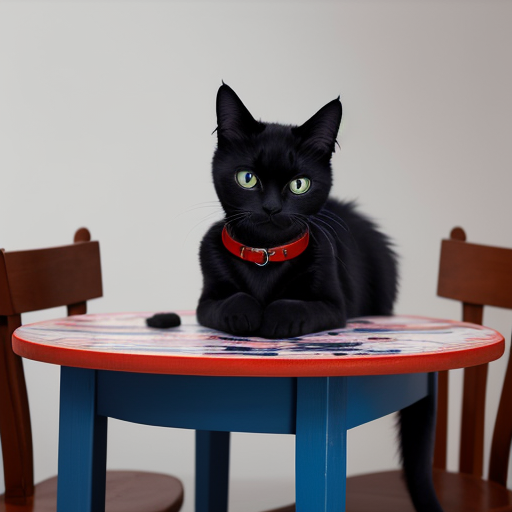
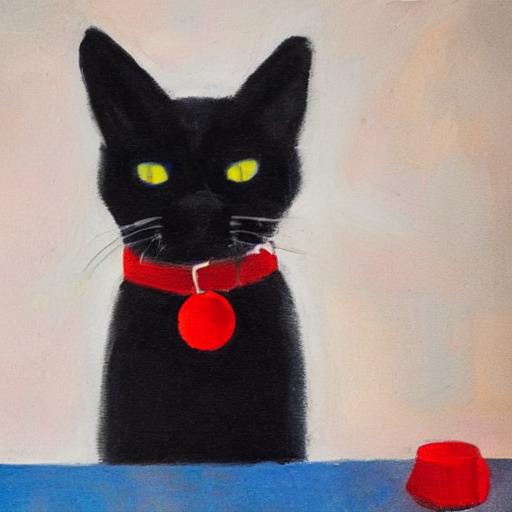
Add artists styles

diff --git a/03-prompt-formula-style.md b/03-prompt-formula-style.md
@@ -13,24 +13,33 @@ Our prompt formula can now be extended to:
 
 Some popular example for artistic styles are:
 
-- **Realism, Realistic style**: A focus on mimicking the appearance and nature of the subject. It is recognizable by fine rendering, muted colors, intricate detail, and accurate fundamentals.
+- **Realism, Realistic style**: A focus on mimicking the appearance and nature of the subject. It is recognizable by fine rendering, muted colors, intricate detail, and accurate fundamentals. Famous artists: Gustave Courbet, Jean-François Millet, Winslow Homer.
 - **Romanticism, Romantic style**: It means capturing the subject in a favorable and exaggerated style.
 Art in the romantic style is characterized by sharp contrast, bright highlights, strong colors, and a refined, almost
-glossy finish.
+glossy finish.  Famous artists: Caspar David Friedrich, Eugène Delacroix, William Blake.
 - **Abstract art**: A focus on capturing the subject in its simplest form. Think of abstract
-as a scale rather than an absolute term. Essentially all artworks have some form of abstraction. Its characteristics are Reliance on shapes, colors, lines, and contrast.
-- **Impressionism**: Captures the artist's impression of a subject. It is recognizable by light colors, weak shadows, energetic brushwork, broken color, and colorful accents.
-- **Photorealism**: It means capturing the subject with photographic accuracy. Photorealism is an art movement that seeks to replicate the look of real-life photographs through another medium. Charecteristics are meticulous drawing and detail.
+as a scale rather than an absolute term. Essentially all artworks have some form of abstraction. Its characteristics are Reliance on shapes, colors, lines, and contrast. Famous artists: Wassily Kandinsky, Joan Miró, Piet Mondrian.
+- **Impressionism**: Captures the artist's impression of a subject. It is recognizable by light colors, weak shadows, energetic brushwork, broken color, and colorful accents. Famous artists: Claude Monet, Pierre-Auguste Renoir, Edgar Degas.
+- **Photorealism**: It means capturing the subject with photographic accuracy. Photorealism is an art movement that seeks to replicate the look of real-life photographs through another medium. Charecteristics are meticulous drawing and detail. Famous artists: Chuck Close, Ralph Goings, Robert Bechtle.
 - **Surrealism**: Surrealism is an art movement that explores the bizarre and dreamlike, creating images that defy reality and logic. It often features unexpected combinations, distorted forms, and a focus on the subconscious mind. Salvador Dalí and René Magritte are notable surrealistic artists.
-- **Pop Art**: Pop art was a Western art movement that was popularized in The United States and Great Britain in the 1950s. Pop art – known for its bright, attention-catching colors – was used in advertising, merchandising, and graphic design during an era of rapid consumer growth.
-- **Hyperrealism**: Hyperrealism is an art style that creates extremely realistic artworks, often indistinguishable from high-resolution photographs. Artists meticulously capture details to achieve a heightened level of realism.
+- **Pop Art**: Pop art was a Western art movement that was popularized in The United States and Great Britain in the 1950s. Pop art – known for its bright, attention-catching colors – was used in advertising, merchandising, and graphic design during an era of rapid consumer growth. Famous artists: Andy Warhol, Roy Lichtenstein, Claes Oldenburg.
+- **Hyperrealism**: Hyperrealism is an art style that creates extremely realistic artworks, often indistinguishable from high-resolution photographs. Artists meticulously capture details to achieve a heightened level of realism. Famous artists: Denis Peterson, Audrey Flack, Roberto Bernardi.
+
+Yet, considering the significant variations within artistic styles, I've found that naming the artist is usually the wiser option. Instead of using "Abstract art" in your prompt, opt for an artist's name like "in the style of Kandinsky." The AI will then create an image mimicking the named artist's style. The artists' names don't have to exclusively be painters; they could include photographers like *Ansel Adams* or *Helmut Newton*, film directors such as *Wes Anderson* or *Tim Burton*, or even studios like *Studio Ghibli*, *Disney*, or *Pixar*.
+
 
 
 ## Examples
 
-
 | Prompt | Image | Prompt Breakdown |
 | ------------------- | ----- | ------------------ |
-| Abstract art of a cute black cat with blue eyes wearing a red collar lying on a table | ![cute-black-cat](./images/prompt-formula/style/cute-black-cat.png) | <ul><li><strong>Artistic medium:</strong> Not Specified</li><li><strong>Subject:</strong> cat</li><li><strong>Adjective:</strong> cute, black, with blue eyes</li><li><strong>Location:</strong> lying on a table</li><li><strong>Action or Accessory:</strong> wearing a red collar</li><li><strong>Artistic style:</strong> Abstract art</li></ul> |
-| Oil painting of a cheerful young woman with long, curly hair holding a bouquet of colorful flowers in a garden, , in the style of classicism | ![cheeerful young woman in garden](./images/prompt-formula/style/cheerful-young-woman-in-garden.png) | <ul><li><strong>Artistic medium:</strong> Oil painting</li><li><strong>Subject:</strong> woman</li><li><strong>Adjective:</strong> cheerful, young, with long curly hair</li><li><strong>Location:</strong> in a garden</li><li><strong>Action or Accessory:</strong> holding a bouquet of colorful flowers</li><li><strong>Style:</strong> in the style of classicism</li></ul> |
-| Hyperrealistic portrait of a beautiful woman wearing traditional dress qipao, floating in air with electricity surrounding, electricity in eyes, fire in background. Photograph | ![woman in quipong](./images/prompt-formula/style/woman-in-qipao.png) | <ul><li><strong>Artistic medium:</strong> Photograph</li><li><strong>Subject:</strong> Woman</li><li><strong>Adjective:</strong> Beautiful, wearing traditional dress qipao, electricity in eyes</li><li><strong>Location:</strong> Fire in background</li><li><strong>Action or Accessory:</strong> Floating in air with electricity surrounding </li><li><strong>Style:</strong> Hyperrealistic</li></ul></ul> |
+| Abstract art of a cute black cat with blue eyes wearing a red collar lying on a table | ![cute-black-cat](./images/prompt-formula/style/cute-black-cat.png) | <ul><li><strong>Subject:</strong> cat</li><li><strong>Adjective:</strong> cute, black, with blue eyes</li><li><strong>Location:</strong> lying on a table</li><li><strong>Action or Accessory:</strong> wearing a red collar</li><li><strong>Artistic medium:</strong> Not Specified</li><li><strong>Artistic style:</strong> Abstract art</li></ul> |
+| Oil painting of a cheerful young woman with long, curly hair holding a bouquet of colorful flowers in a garden, in the style of classicism | ![cheerful young woman in garden](./images/prompt-formula/style/cheerful-young-woman-in-garden.png) | <ul><li><strong>Subject:</strong> woman</li><li><strong>Adjective:</strong> cheerful, young, with long curly hair</li><li><strong>Location:</strong> in a garden</li><li><strong>Action or Accessory:</strong> holding a bouquet of colorful flowers</li><li><strong>Artistic medium:</strong> Oil painting</li><li><strong>Artistic style:</strong> in the style of classicism</li></ul> |
+| Hyperrealistic portrait of a beautiful woman wearing traditional dress qipao, floating in air with electricity surrounding, electricity in eyes, fire in background. Photograph | ![woman in qipao](./images/prompt-formula/style/woman-in-qipao.png) | <ul><li><strong>Subject:</strong> Woman</li><li><strong>Adjective:</strong> Beautiful, wearing traditional dress qipao, electricity in eyes</li><li><strong>Location:</strong> Fire in background</li><li><strong>Action or Accessory:</strong> Floating in air with electricity surrounding</li><li><strong>Artistic medium:</strong> Photograph</li><li><strong>Artistic style:</strong> Hyperrealistic</li></ul> |
+| A lollipop in the style of Vincent van Gogh | ![Lollipop](./images/prompt-formula/style/Lollipop.png) | <ul><li><strong>Subject:</strong> Lollipop</li><li><strong>Adjective:</strong> Not specified </li><li><strong>Location:</strong> Not specified</li><li><strong>Action or Accessory:</strong> Not specified </li><li><strong>Artistic medium:</strong> Not specified </li><li><strong>Artistic style:</strong> in the style of Vincent van Gogh </li></ul> |
+| A cute sparkly little unicorn, Banksy style | ![unicorn](./images/prompt-formula/style/unicorn.png) | <ul><li><strong>Subject:</strong> Unicorn</li><li><strong>Adjective:</strong> cute, sparkly, little </li><li><strong>Location:</strong> Not specified</li><li><strong>Action or Accessory:</strong> Not specified </li><li><strong>Artistic medium:</strong> Not specified </li><li><strong>Artistic style:</strong> Banksy style </li></ul> |
+| Donald Duck walking down the street, as a character in a Wes Anderson movie | ![unicorn](./images/prompt-formula/style/donald-duck.png) | <ul><li><strong>Subject:</strong> Donald Duck </li><li><strong>Adjective:</Not specified </li><li><strong>Location:</strong> Not specified</li><li><strong>Action or Accessory:</strong> Not specified </li><li><strong>Artistic medium:</strong> Not specified </li><li><strong>Artistic style:</strong> As a character in a Wes Anderson Movie </li></ul> |
+
+
+
+

diff --git a/02-prompt-formula-medium.md b/02-prompt-formula-medium.md
@@ -28,13 +28,13 @@ There are numerous forms of artistic mediums, and they vary based on the techniq
 
 | Prompt | Image | Prompt Breakdown |
 | ------------------- | ----- | ------------------ |
-| Graffiti of a cute black cat with blue eyes wearing a red collar lying on a table | ![cute-black-cat](./images/prompt-formula/medium/cute-black-cat.png) | <ul><li><strong>Artistic medium:</strong> Graffiti</li><li><strong>Subject:</strong> cat</li><li><strong>Adjective:</strong> cute, black, with blue eyes</li><li><strong>Location:</strong> lying on a table</li><li><strong>Action or Accessory:</strong> wearing a red collar</li></ul> |
-| Oil painting cheerful young woman with long, curly hair holding a bouquet of colorful flowers in a garden | ![cheeerful young woman in garden](./images/prompt-formula/medium/cheerful-young-woman-in-garden.png) | <ul><li><strong>Artistic medium:</strong> Oil painting</li><li><strong>Subject:</strong> woman</li><li><strong>Adjective:</strong> cheerful, young, with long curly hair</li><li><strong>Location:</strong> in a garden</li><li><strong>Action or Accessory:</strong> holding a bouquet of colorful flowers</li></ul> |
-| illustration of a cute little fluffy alien | ![alien](./images/prompt-formula/medium/cute-alien.png) | <ul><li><strong>Artistic medium:</strong> Illustration</li><li><strong>Subject:</strong> Alien</li><li><strong>Adjective:</strong> cute, little, fluffy</li><li><strong>Location:</strong> Not specified</li><li><strong>Action or Accessory:</strong> Not specified</li></ul> |
-| 3D render of a curious cat exploring a mysterious cardboard box | ![cat in cardbox](./images/prompt-formula/medium/cat-in-cardbox.png) | <ul><li><strong>Artistic medium:</strong> 3d render</li><li><strong>Subject:</strong> Cat</li><li><strong>Adjective:</strong> Curious</li><li><strong>Location:</strong> Not specified</li><li><strong>Action or Accessory:</strong> Exploring a mysterious cardboard box</li></ul> |
-| Black and white photograph of a bustling city street.| ![black-and-white street](./images/prompt-formula/medium/black-white-street.png) | <ul><li><strong>Artistic medium:</strong> Black and white photograph</li><li><strong>Subject:</strong> city street</li><li><strong>Adjective:</strong> bustling</li><li><strong>Location:</strong> Not specified</li><li><strong>Action or Accessory:</strong> Not specified</li></ul> |
-| Watercolor painting of a delicious pizza at a cozy Italian restaurant | ![pizza in restaurant](./images/prompt-formula/medium/pizza-in-restaurant.png) | <ul><li><strong>Artistic medium:</strong> Watercolor painting</li><li><strong>Subject:</strong> Pizza</li><li><strong>Adjective:</strong> Delicious</li><li><strong>Location:</strong> Cozy Italian restaurant</li><li><strong>Action or Accessory:</strong> Not specified</li></ul> |
-| Photograph of an owl | ![owl](./images/prompt-formula/medium/owl.png) | <ul><li><strong>Artistic medium:</strong> Photograph</li><li><strong>Subject:</strong> Owl</li><li><strong>Adjective:</strong> Not specified</li><li><strong>Location:</strong> Not specified</li><li><strong>Action or Accessory:</strong> Not specified</li></ul> |
-| Digital art representation of a busy city street, filled with rushing commuters | ![busy city](./images/prompt-formula/medium/city-with-commuters.png) | <ul><li><strong>Artistic medium:</strong> Digital art representation</li><li><strong>Subject:</strong> City street</li><li><strong>Adjective:</strong> Busy</li><li><strong>Location:</strong> Not specified</li><li><strong>Action or Accessory:</strong> Filled with rushing commuters</li></ul> |
-| Ink drawing of a mountain landscape| ![mountain landscape](./images/prompt-formula/medium/ink-drawing-mountains.png) | <ul><li><strong>Artistic medium:</strong> Ink drawing</li><li><strong>Subject:</strong> mountain landscape</li><li><strong>Adjective:</strong> Not specified</li><li><strong>Location:</strong> Not specified</li><li><strong>Action or Accessory:</strong> Not specified</li></ul> |
-| Pixel art representation of a fairy | ![pixel fairy](./images/prompt-formula/medium/pixel-fairy.png) | <ul><li><strong>Artistic medium:</strong> Pixel art</li><li><strong>Subject:</strong> Fairy</li><li><strong>Adjective:</strong> Not specified</li><li><strong>Location:</strong> Not specified</li><li><strong>Action or Accessory:</strong> Not specified</li></ul> |
+| Graffiti of a cute black cat with blue eyes wearing a red collar lying on a table | ![cute-black-cat](./images/prompt-formula/medium/cute-black-cat.png) | <ul><li><strong>Subject:</strong> cat</li><li><strong>Adjective:</strong> cute, black, with blue eyes</li><li><strong>Location:</strong> lying on a table</li><li><strong>Action or Accessory:</strong> wearing a red collar</li><li><strong>Artistic medium:</strong> Graffiti</li></ul> |
+| Oil painting cheerful young woman with long, curly hair holding a bouquet of colorful flowers in a garden | ![cheeerful young woman in garden](./images/prompt-formula/medium/cheerful-young-woman-in-garden.png) | <ul><li><strong>Subject:</strong> woman</li><li><strong>Adjective:</strong> cheerful, young, with long curly hair</li><li><strong>Location:</strong> in a garden</li><li><strong>Action or Accessory:</strong> holding a bouquet of colorful flowers</li><li><strong>Artistic medium:</strong> Oil painting</li></ul> |
+| illustration of a cute little fluffy alien | ![alien](./images/prompt-formula/medium/cute-alien.png) | <ul><li><strong>Subject:</strong> Alien</li><li><strong>Adjective:</strong> cute, little, fluffy</li><li><strong>Location:</strong> Not specified</li><li><strong>Action or Accessory:</strong> Not specified</li><li><strong>Artistic medium:</strong> Illustration</li></ul> |
+| 3D render of a curious cat exploring a mysterious cardboard box | ![cat in cardbox](./images/prompt-formula/medium/cat-in-cardbox.png) | <ul><li><strong>Subject:</strong> Cat</li><li><strong>Adjective:</strong> Curious</li><li><strong>Location:</strong> Not specified</li><li><strong>Action or Accessory:</strong> Exploring a mysterious cardboard box</li><li><strong>Artistic medium:</strong> 3d render</li></ul> |
+| Black and white photograph of a bustling city street.| ![black-and-white street](./images/prompt-formula/medium/black-white-street.png) | <ul><li><strong>Subject:</strong> city street</li><li><strong>Adjective:</strong> bustling</li><li><strong>Location:</strong> Not specified</li><li><strong>Action or Accessory:</strong> Not specified</li><li><strong>Artistic medium:</strong> Black and white photograph</li></ul> |
+| Watercolor painting of a delicious pizza at a cozy Italian restaurant | ![pizza in restaurant](./images/prompt-formula/medium/pizza-in-restaurant.png) | <ul><li><strong>Subject:</strong> Pizza</li><li><strong>Adjective:</strong> Delicious</li><li><strong>Location:</strong> Cozy Italian restaurant</li><li><strong>Action or Accessory:</strong> Not specified</li><li><strong>Artistic medium:</strong> Watercolor painting</li></ul> |
+| Photograph of an owl | ![owl](./images/prompt-formula/medium/owl.png) | <ul><li><strong>Subject:</strong> Owl</li><li><strong>Adjective:</strong> Not specified</li><li><strong>Location:</strong> Not specified</li><li><strong>Action or Accessory:</strong> Not specified</li><li><strong>Artistic medium:</strong> Photograph</li></ul> |
+| Digital art representation of a busy city street, filled with rushing commuters | ![busy city](./images/prompt-formula/medium/city-with-commuters.png) | <ul><li><strong>Subject:</strong> City street</li><li><strong>Adjective:</strong> Busy</li><li><strong>Location:</strong> Not specified</li><li><strong>Action or Accessory:</strong> Filled with rushing commuters</li><li><strong>Artistic medium:</strong> Digital art representation</li></ul> |
+| Ink drawing of a mountain landscape| ![mountain landscape](./images/prompt-formula/medium/ink-drawing-mountains.png) | <ul><li><strong>Subject:</strong> mountain landscape</li><li><strong>Adjective:</strong> Not specified</li><li><strong>Location:</strong> Not specified</li><li><strong>Action or Accessory:</strong> Not specified</li><li><strong>Artistic medium:</strong> Ink drawing</li></ul> |
+| Pixel art representation of a fairy | ![pixel fairy](./images/prompt-formula/medium/pixel-fairy.png) | <ul><li><strong>Subject:</strong> Fairy</li><li><strong>Adjective:</strong> Not specified</li><li><strong>Location:</strong> Not specified</li><li><strong>Action or Accessory:</strong> Not specified</li><li><strong>Artistic medium:</strong> Pixel art</li></ul> |
